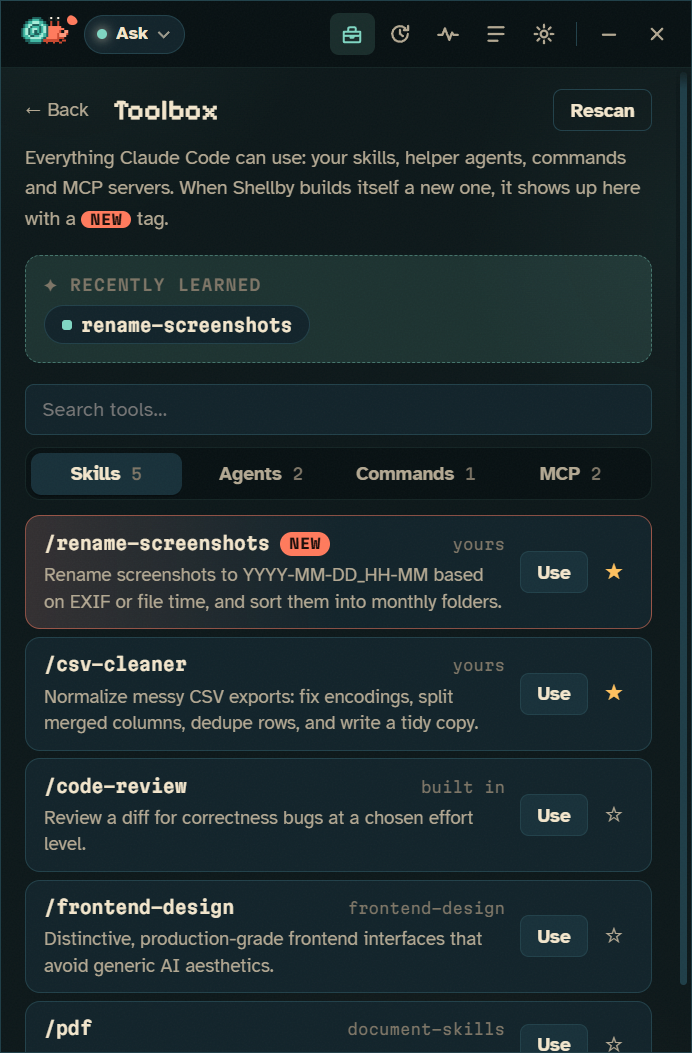
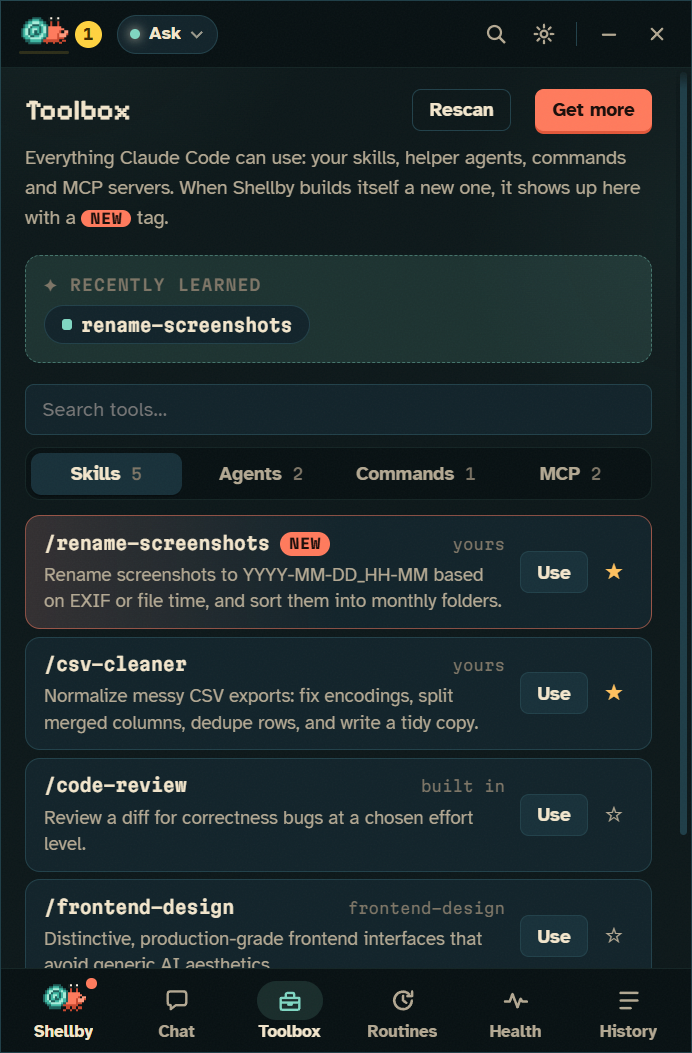
0.16.1: README catches up with 0.16.0
Documents the bottom bar, Ctrl+K and Ctrl+1-6, question cards,
one-click plugin install, the cmd.exe status line and Find Shellby.
Regenerates the screenshots with the new layout and completes the
project layout and test-script table.

diff --git a/README.md b/README.md
@@ -41,9 +41,9 @@ and overflows his shell when C: is full. Dress him up and earn trophies, with no
 ## What it does
 
 ### He works like you use Claude Code: orchestrating
-- **Works with Claude Code everywhere.** Add the Shellby plugin (`/plugin marketplace add x-salmon/shellby`, then `/plugin install shellby@shellby`) and he reacts to *every* Claude Code session on your PC, in the terminal, VS Code or anywhere else. He scuttles while Claude works, raises a claw when it needs permission, celebrates finished turns and sends out helper crabs for subagents. See [claude-plugin/](claude-plugin/).
+- **Works with Claude Code everywhere.** Add the Shellby plugin (one click in **Settings → Claude Code everywhere**, or `/plugin marketplace add x-salmon/shellby` then `/plugin install shellby@shellby` in Claude Code) and he reacts to *every* Claude Code session on your PC, in the terminal, VS Code or anywhere else. He scuttles while Claude works, raises a claw when it needs permission, celebrates finished turns and sends out helper crabs for subagents. See [claude-plugin/](claude-plugin/).
 - **Crew view.** When Claude delegates to subagents, each helper gets its own lane: task, live activity, tool count, tokens and time. The same number of helper crabs scuttle out next to Shellby on your desktop, and click one to jump to its conversation. When a helper needs permission, the card shows up in its lane, labelled with which crab is asking.
-- **His face in Claude Code's status line.** `🦀💨 Shellby working · Lv 5 Claw Coder ▰▰▰▱▱ · 🥵 GPU 84°C · +25 XP`, right under the prompt in the terminal and VS Code. Turn it on with **Settings → Claude Code everywhere → Status line** (it asks first, keeps a backup, and puts your old status line back if you remove it), or run `/shellby:statusline` in Claude Code with the plugin installed.
+- **His face in Claude Code's status line.** `🦀💨 Shellby working · Lv 5 Claw Coder ▰▰▰▱▱ · 🥵 GPU 84°C · +25 XP`, right under the prompt in the terminal and VS Code. Turn it on with **Settings → Claude Code everywhere → Status line** (it asks first, keeps a backup, and puts your old status line back if you remove it), or run `/shellby:statusline` in Claude Code with the plugin installed. In the classic cmd.exe console, which can't draw emoji, it switches to a plain-text line on its own.
 - **Queue messages while he works.** Keep typing while Shellby is busy: Enter queues the message and it's sent when the current turn finishes, like Claude Code. Click a queued message (or press <kbd>↑</kbd>) to edit it. Stopping hands the queue back to you instead of firing it.
 - **Parallel conversations.** Tabs, each with its own Claude Code process: build a tool in one while you use it in another. The desktop crab shows how many are running. Shortcuts: <kbd>Ctrl</kbd>+<kbd>T</kbd>, <kbd>Ctrl</kbd>+<kbd>W</kbd>, <kbd>Ctrl</kbd>+<kbd>Tab</kbd>.
 - **Toolbox: he learns tricks.** Everything Claude Code can use: skills, subagents, slash commands and MCP servers (with connection status). When Claude writes itself a new skill or agent, Shellby notices the file, celebrates on your desktop, tags it **new**, and offers to pin it. Pinned tricks become one-click chips on the start screen, and <kbd>/</kbd> in the composer autocompletes all of them.
@@ -56,7 +56,7 @@ and overflows his shell when C: is full. Dress him up and earn trophies, with no
 </p>
 
 - **37 pixel accessories and 7 effects** in six slots: hats, face, neck, held item (in his claw), shell, and effects like snowfall, orbiting bats, falling leaves, fireflies and confetti. Accessories animate with the part they're attached to, so a pumpkin swings with his claw and a hat bobs with his eye stalks.
-- **XP and levels.** Shellby earns XP as you work, and most of all when he **writes himself a new skill or agent** (+150), which usually tips him into the next level. Other sources: deploys (+50), pushes (+40), passing tests (+25), trophies (+20) and finished tasks (+10). It counts in Shellby and, with the plugin, in your terminal too. He climbs from Hatchling through Claw Coder and Reef Architect to Legend of the Tides. "+25 XP" floats up from him on the desktop, level-ups get a celebration, and Trophies shows his level and an XP log. Hourly caps stop a test loop from farming XP.
+- **XP and levels.** Shellby earns XP as you work, and most of all when he **writes himself a new skill or agent** (+150), which usually tips him into the next level. Other sources: deploys (+50), pushes (+40), passing tests (+25), trophies (+20) and finished tasks (+10). It counts in Shellby and, with the plugin, in your terminal too. He climbs from Hatchling through Claw Coder and Reef Architect to Legend of the Tides. "+25 XP" floats up from him on the desktop, level-ups get a celebration, and **Trophies & XP** (click the yellow level badge next to him in the title bar) shows his level, an XP log and your streak. Hourly caps stop a test loop from farming XP.
 - **GitHub sign-in (optional).** Sign in with a short code you approve on github.com, with no password typed into Shellby. Then turn on what you want, and GitHub is only asked for the permissions those features need:
   - **Sync between PCs:** trophies, collected items, XP, streak days, outfit and color, through a private gist. Syncing only ever adds progress, so nothing is lost on either PC.
   - **Publish Wardrobe packs:** a **Publish** button on your own packs forks the community gallery and opens the pull request for you.
@@ -68,7 +68,7 @@ and overflows his shell when C: is full. Dress him up and earn trophies, with no
 - **Helper crabs wear matching hats**, and every crab in the app is dressed the same way.
 - **Community packs.** More hats, effects and colors from other people, installed in one click. See [Community wardrobe](#community-wardrobe) below.
 - **Outfit codes.** Every look has a code like `SHB-B1T7-2DB1-7MXH-JW90`. Post yours, paste someone else's into **Wear a code…** and Shellby previews it on your crab, then puts it on. Locked items show which trophy unlocks them, and items from community packs you don't have come with a **Get pack** button. Codes are typo-proof and need no server.
-- **Show him off.** **📸 Share** in the Wardrobe makes a crab card with your Shellby as he's dressed, your best trophy, task count and trophy shelf. It's copied to your clipboard and saved to `Pictures\Shellby`, ready to paste into a post. Sharing one earns a trophy too.
+- **Show him off.** **📸 Share** on Shellby's screen makes a crab card with your Shellby as he's dressed, your best trophy, task count and trophy shelf. It's copied to your clipboard and saved to `Pictures\Shellby`, ready to paste into a post. Sharing one earns a trophy too.
 
 <p align="center"><img src="docs/crab-card.png" width="600" alt="A Shellby crab card: Shellby in a wizard hat with a coffee mug and sparkles, titled Fleet Admiral, 12 tasks done, 7 of 22 trophies, 31 helper crabs sent"></p>
 
@@ -106,14 +106,21 @@ and overflows his shell when C: is full. Dress him up and earn trophies, with no
 
 ### And keeps you in the loop
 - **Asks before acting.** Permission prompts become cards: **Allow**, **Always allow**, or **Deny**, with <kbd>Y</kbd> / <kbd>A</kbd> / <kbd>N</kbd> shortcuts.
+- **Questions become cards too.** When Claude asks you a multiple-choice question, you get a card with each option and its description: press <kbd>1</kbd>–<kbd>9</kbd> to pick, choose several when it allows that, type your own answer, or **Skip**.
 - **Flags self-built tooling.** If a command runs a script Claude wrote earlier in the same conversation, or an edit touches Claude Code's own setup (skills, agents, hooks, settings, `CLAUDE.md`), the card says so before you click Allow.
 - **Five permission modes.** Ask, Smart (Claude Code's auto mode), Auto-edit, Plan-only, and a fenced-off Autonomous mode.
 - **Lives on your desktop, not over your apps.** Shellby sits on the wallpaper layer, behind every window, and stays put through <kbd>Win</kbd>+<kbd>D</kbd>.
-- **Also:** drop files on the crab to attach them, a live 5-hour and weekly usage meter, resumable history, a global hotkey, tray, notifications, auto-updates, and [skins](docs/SKINS.md).
+- **Also:** drop files on the crab to attach them, **Settings → Look → Find Shellby** if he ever wanders off-screen, a live 5-hour and weekly usage meter, resumable history, a global hotkey, tray, notifications, auto-updates, and [skins](docs/SKINS.md).
 
 <p align="center">
 <img src="docs/critter-working.png" width="110" alt="working"> <img src="docs/critter-asking.png" width="110" alt="asking"> <img src="docs/critter-learned.png" width="110" alt="learned a new trick"> <img src="docs/critter-success.png" width="110" alt="done"> <img src="docs/critter-sleeping.png" width="110" alt="sleeping">
 </p>
+
+### Easy to get around
+- **A bar along the bottom of the panel**: **Shellby**, Chat, Toolbox, Routines, Health and History, always labeled, with the screen you're on lit up. Shellby leads it, drawn as himself in whatever he's wearing, and opens his own screen: **Outfits** and **Trophies & XP**.
+- **Jump anywhere with <kbd>Ctrl</kbd>+<kbd>K</kbd>** (or the magnifier in the title bar): type a few letters to open any screen, a Settings section, a permission mode, a past conversation, or a skill.
+- **Keyboard first:** <kbd>Ctrl</kbd>+<kbd>1</kbd>–<kbd>6</kbd> for the screens in the bar, and <kbd>Esc</kbd> goes back up one level (Skill Shop → Toolbox → home), then hides the panel.
+- **Settings has section links** that stay at the top while you scroll, so the long page is one click from anywhere.
 
 ## Install
 
@@ -193,8 +200,9 @@ npm start
 | `node scripts/smoke-real.js` | End-to-end check against your real Claude Code install |
 | `node scripts/e2e-ui.js` | Drives the real UI over CDP: two parallel tabs, a subagent needing approval, helper crabs on the desktop |
 | `node scripts/overlay-visual-test.js` | Proves the critter never paints over apps: covers it with a window, cycles every mood, and counts real screen pixels |
+| `node scripts/e2e-shop.js` | The Skill Shop against your real Claude Code, read-only: plugin list, search and filters, then Install is cancelled in the confirm window, so nothing is installed |
 | `node scripts/e2e-registry.js` | One-click install from the live community registry: warm and cold, themed confirmation, every item previewed |
-| `node scripts/e2e-wardrobe.js` | Real task → first trophy unlocks → desktop celebration → wear the Party Hat (isolated profile) |
+| `node scripts/e2e-wardrobe.js` | Real task → first trophy unlocks → desktop celebration and the celebration card → wear the Party Hat from it (isolated profile) |
 | `python scripts/preview-wardrobe.py` | Contact sheet of every accessory worn by the crab, for pixel-art work |
 | `node scripts/e2e-plugin.js` | A **real** `claude -p` session with `--plugin-dir ./claude-plugin` drives a dev Shellby: the crab works, then celebrates. Also checks the hook is instant when Shellby is closed (uses one tiny prompt) |
 | `node scripts/e2e-outfit-code.js` | Outfit codes: read your code, undress, paste it back for the same look; locked items, a community item traced to its pack in the live gallery, a typo, the code on the crab card |
@@ -211,6 +219,7 @@ npm start
 | `node scripts/e2e-health.js` | Every health mood with scripted sensors: desktop reaction, speech bubble, Health view, the badge on Health in the bottom bar, screenshots |
 | `node scripts/ui-regressions.js` | Closing the last tab leaves one tab; themed tooltips replace the OS ones |
 | `node scripts/titlebar-fit.js` | Checks the title bar fits at every panel width in every permission mode |
+| `node scripts/wardrobe-shots.js` | Screenshots the Outfits screen and the desktop crab in his current outfit, and reports renderer errors |
 | `node scripts/zorder-probe.js` | Shows where the running critter sits in the window stack and whether it's owned by the desktop |
 | `npm run screenshots` | Re-render the README screenshots (with fake account details) |
 | `npm run reel` | Record the README demo GIF: a scripted task, helper crabs and a trophy, played through the real UI (needs Python + Pillow; `pip install imageio-ffmpeg` adds the MP4) |
@@ -227,6 +236,8 @@ src/main/        Electron main process
   stream.js        pure parser: CLI events (incl. subagent tasks) → UI items
   safety.js        flags "runs a file Claude wrote" / "changes Claude Code itself"
   toolbox.js       skills/agents/commands/MCP scan + "learned a new trick" watcher
+  marketplace.js   the Skill Shop, on top of Claude Code's own `claude plugin` CLI
+  confirm.js       themed confirmation windows (installs, sign-in, publishing), each in its own sandbox
   routines.js      schedule maths + scheduler for recurring tasks
   wardrobe/        catalog (packs + validation), seasons, achievements, and the outfit service
   health/          sensors (nvidia-smi, LibreHardwareMonitor, Windows), pure threshold rules, the monitor loop, alerts
@@ -239,9 +250,12 @@ src/main/        Electron main process
   claude-cli.js    finds the CLI, checks auth, scrubs billing env vars
   history.js       local conversation index + transcripts
   skins.js         loads and validates skins
+  config.js        settings in %APPDATA%\Shellby\settings.json
+  placement.js     pure geometry for placing the critter and panel across monitors
+  capture.js       `npm run screenshots`; reel.js records the README demo
 src/preload/     the only bridge between sandboxed renderers and main
 src/renderer/    critter + panel UIs (plain HTML/CSS/JS, no framework)
-  panel/           core · feed (crew lanes) · tabs · toolbox · routines · settings · wardrobe · health · boot
+  panel/           core · nav (bottom bar, Ctrl+K) · feed (crew lanes) · tabs · toolbox · shop · routines · settings · wardrobe · xp · streaks · health · card · celebrate · crabonly · outfitcode · github · boot
 src/skins/       built-in skins (JSON pixel grids)
 src/wardrobe/    the built-in wardrobe pack (same format as community packs)
 test/            node:test suites and a fake Claude CLI

diff --git a/CHANGELOG.md b/CHANGELOG.md
@@ -1,5 +1,10 @@
 # Changelog
 
+## 0.16.1
+
+### Docs
+- **The README catches up** with everything through 0.16.0: the bottom bar, Ctrl+K and the other shortcuts, question cards, one-click plugin install, the plain-text status line in cmd.exe, and Find Shellby. Its screenshots now show the new layout, and the project layout and test-script list are complete again.
+
 ## 0.16.0: easier to get around
 
 ### New
